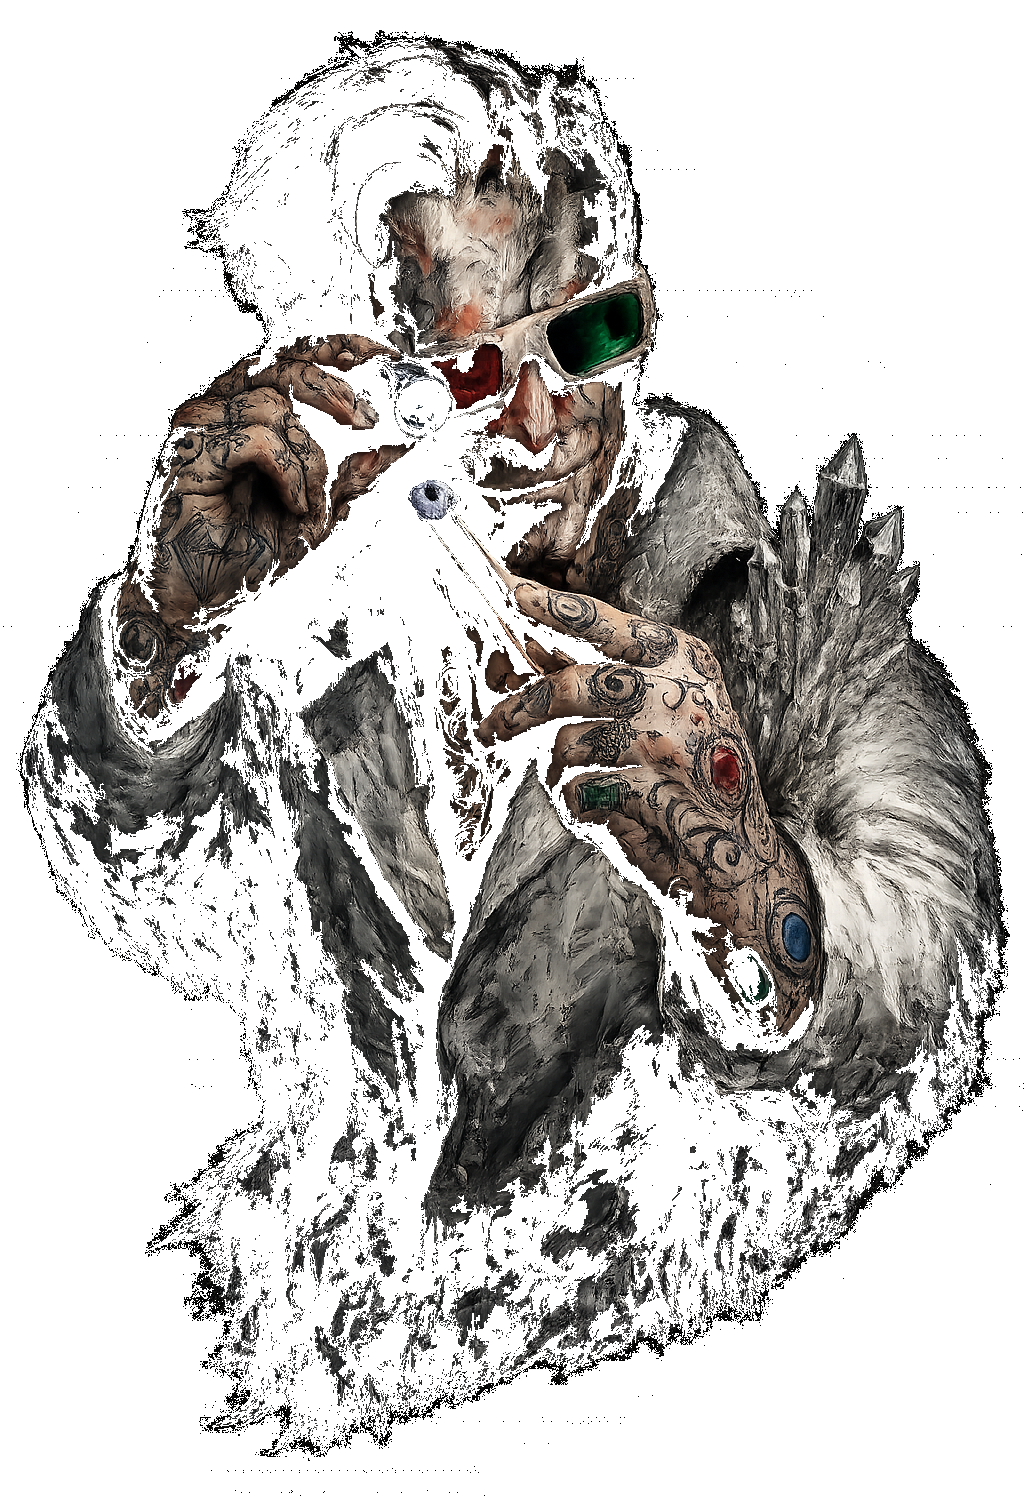
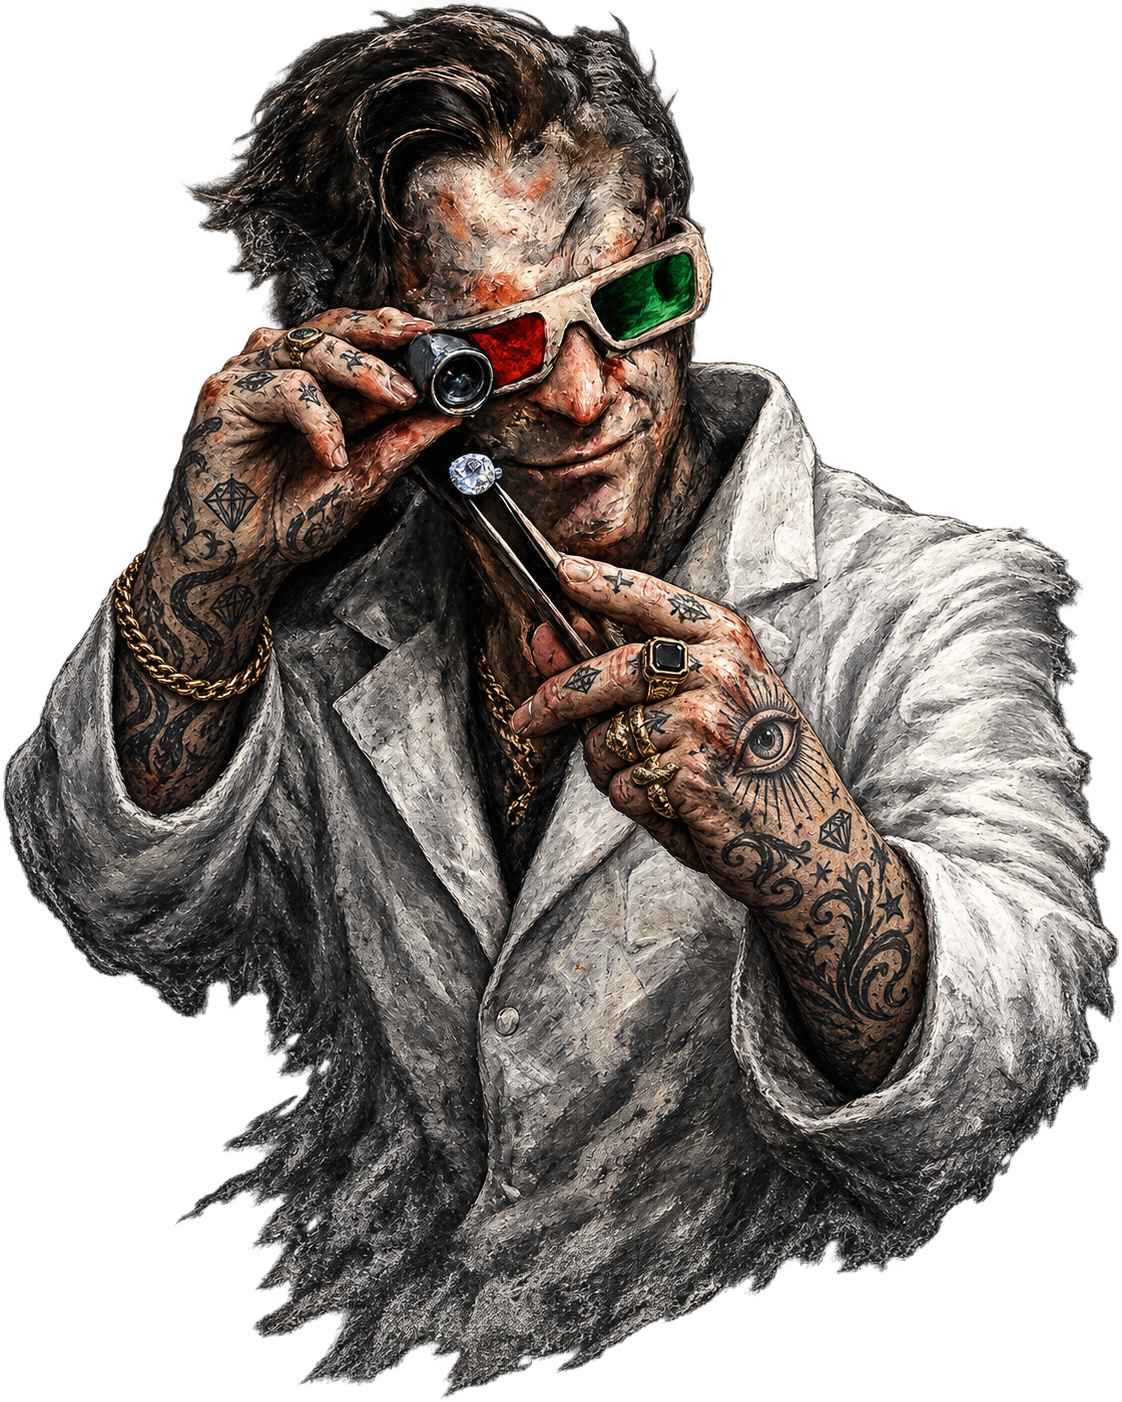
719

diff --git a/game.html b/game.html
@@ -5,7 +5,7 @@
   <meta name="viewport" content="width=device-width,initial-scale=1,viewport-fit=cover,user-scalable=no">
   <meta http-equiv="Content-Security-Policy" content="default-src 'self'; base-uri 'self'; object-src 'none'; script-src 'self' 'nonce-jxj-kaitenzushi' https://www.gstatic.com https://apis.google.com https://www.google.com https://www.recaptcha.net; style-src 'self' 'unsafe-inline'; img-src 'self' data: blob: https://www.gstatic.com https://*.googleusercontent.com; media-src 'self' blob:; font-src 'self' data:; connect-src 'self' https://*.googleapis.com https://*.firebaseio.com wss://*.firebaseio.com https://*.firebaseapp.com https://accounts.google.com https://*.google.com https://www.recaptcha.net https://*.gstatic.com; frame-src 'self' https://*.firebaseapp.com https://accounts.google.com https://www.google.com https://www.recaptcha.net; worker-src 'self' blob:; child-src 'self' blob:; manifest-src 'self'; form-action 'self' https://accounts.google.com; upgrade-insecure-requests">
   <script src="./auth-cache-recovery-v707.js"></script>
-  <script src="./hosting-origin-guard.js?v=0.10.718"></script>
+  <script src="./hosting-origin-guard.js?v=0.10.719"></script>
   <meta name="referrer" content="strict-origin-when-cross-origin">
   <meta name="theme-color" content="#130e09">
   <meta name="mobile-web-app-capable" content="yes">
@@ -20,7 +20,7 @@
   <link rel="manifest" href="./manifest.webmanifest">
   <link rel="icon" href="./assets/icons/favicon.png">
   <link rel="apple-touch-icon" href="./assets/icons/apple-touch-icon.png">
-  <link rel="stylesheet" href="./styles.css?v=0.10.718">
+  <link rel="stylesheet" href="./styles.css?v=0.10.719">
 
   <style id="event-video-contain-v638">
     /* v0.10.632: Event movies must always show the complete source frame.
@@ -277,57 +277,6 @@ html[data-device-class="phone"][data-orientation="portrait"] body[data-screen="c
         transform: none !important;
       }
     }
-
-
-    /* v0.10.718: Completion mobile safety fallback. Mirrors styles.css. */
-    @media (orientation:portrait) and (max-width:820px) {
-      body[data-screen="completion"][data-header-mode="two-bar"] .screen-shell:not(.event-shell-no-header) > .screen-content {
-        padding-top: calc(var(--safe-top) + var(--jwj-edge-gap, 7px) * 2 + var(--jwj-two-bar-total-height, 140px) + 18px) !important;
-        scroll-padding-top: calc(var(--safe-top) + var(--jwj-edge-gap, 7px) * 2 + var(--jwj-two-bar-total-height, 140px) + 18px) !important;
-      }
-      body[data-screen="completion"] .result-card > .completion-jewelry-preview {
-        box-sizing: border-box !important;
-        display: flex !important;
-        align-items: flex-start !important;
-        justify-content: center !important;
-        width: 100% !important;
-        height: 334px !important;
-        min-height: 334px !important;
-        margin-top: 0 !important;
-        padding: 124px 0 18px !important;
-        overflow: visible !important;
-      }
-      body[data-screen="completion"] .completion-jewelry-artwork {
-        width: 168px !important;
-        height: 168px !important;
-        margin: 0 !important;
-        transform: none !important;
-      }
-      body[data-screen="completion"] .completion-jewelry-artwork.item-pendant { width: 132px !important; height: 182px !important; }
-      body[data-screen="completion"] .completion-jewelry-artwork.item-earrings { width: 178px !important; height: 161px !important; }
-      body[data-screen="completion"] .completion-jewelry-preview.item-ring .jewelry-loose-set .center-gem { width: 76px !important; max-width: 76px !important; }
-      body[data-screen="completion"] .completion-jewelry-preview.item-ring .jewelry-loose-set .center-gem > img.jewelry-loose-preview { max-height: 76px !important; }
-      body[data-screen="completion"] .completion-jewelry-preview.item-pendant .jewelry-loose-set .center-gem { width: 68px !important; max-width: 68px !important; }
-      body[data-screen="completion"] .completion-jewelry-preview.item-pendant .jewelry-loose-set .center-gem > img.jewelry-loose-preview { max-height: 68px !important; }
-    }
-    @media (orientation:landscape), (min-aspect-ratio:1/1) {
-      body[data-screen="completion"] .result-card > .completion-jewelry-preview {
-        box-sizing: border-box !important;
-        display: flex !important;
-        align-items: flex-start !important;
-        justify-content: center !important;
-        width: 100% !important;
-        height: 280px !important;
-        min-height: 280px !important;
-        margin-top: 0 !important;
-        padding: 48px 0 16px !important;
-        overflow: visible !important;
-      }
-      body[data-screen="completion"] .completion-jewelry-artwork { width: 186px !important; height: 186px !important; margin: 0 !important; transform: none !important; }
-      body[data-screen="completion"] .completion-jewelry-artwork.item-pendant { width: 148px !important; height: 204px !important; }
-      body[data-screen="completion"] .completion-jewelry-artwork.item-earrings { width: 198px !important; height: 178px !important; }
-    }
-
 </style>
 </head>
 <body>
@@ -338,6 +287,6 @@ html[data-device-class="phone"][data-orientation="portrait"] body[data-screen="c
   <div id="modal-layer" class="hidden"></div>
   <div id="sleep-curtain" aria-hidden="true"></div>
   <div id="morning-brief" aria-live="polite"></div>
-  <script type="module" src="./js/app.js?v=0.10.718"></script>
+  <script type="module" src="./js/app.js?v=0.10.719"></script>
 </body>
 </html>

diff --git a/styles.css b/styles.css
@@ -21825,80 +21825,19 @@ body[data-screen="tropicalFishShop"] .tropical-fish-shop-content{
 }
 
 
-/* v0.10.718 完成画面: 携帯確認用HTMLで承認された安全領域へ統一。
-   完成品の上端が2段ヘッダーへ潜り込む／プレビュー上端で切れる症状を防ぐ。 */
-@media (orientation:portrait) and (max-width:820px){
-  body[data-screen="completion"][data-header-mode="two-bar"] .screen-shell:not(.event-shell-no-header)>.screen-content{
-    padding-top:calc(var(--safe-top) + var(--jwj-edge-gap,7px) * 2 + var(--jwj-two-bar-total-height,140px) + 18px)!important;
-    scroll-padding-top:calc(var(--safe-top) + var(--jwj-edge-gap,7px) * 2 + var(--jwj-two-bar-total-height,140px) + 18px)!important;
-  }
-  body[data-screen="completion"] .result-card>.completion-jewelry-preview{
-    box-sizing:border-box!important;
-    display:flex!important;
-    align-items:flex-start!important;
-    justify-content:center!important;
-    width:100%!important;
-    height:334px!important;
-    min-height:334px!important;
-    margin-top:0!important;
-    padding:124px 0 18px!important;
-    overflow:visible!important;
-  }
-  body[data-screen="completion"] .completion-jewelry-artwork{
-    width:168px!important;
-    height:168px!important;
-    margin:0!important;
-    transform:none!important;
-  }
-  body[data-screen="completion"] .completion-jewelry-artwork.item-pendant{
-    width:132px!important;
-    height:182px!important;
-  }
-  body[data-screen="completion"] .completion-jewelry-artwork.item-earrings{
-    width:178px!important;
-    height:161px!important;
-  }
-  body[data-screen="completion"] .completion-jewelry-preview.item-ring .jewelry-loose-set .center-gem{
-    width:76px!important;
-    max-width:76px!important;
-  }
-  body[data-screen="completion"] .completion-jewelry-preview.item-ring .jewelry-loose-set .center-gem>img.jewelry-loose-preview{
-    max-height:76px!important;
-  }
-  body[data-screen="completion"] .completion-jewelry-preview.item-pendant .jewelry-loose-set .center-gem{
-    width:68px!important;
-    max-width:68px!important;
-  }
-  body[data-screen="completion"] .completion-jewelry-preview.item-pendant .jewelry-loose-set .center-gem>img.jewelry-loose-preview{
-    max-height:68px!important;
-  }
+/* v0.10.719 APPROVED FIX — ルース屋3Dメガネイベント
+   川原さん実機確認の最終仕様
+   - キャラクター画像は新しい輪郭トリミング済みPNGを使用
+   - セリフ枠・4択枠・報酬枠は、枠線を残して内部を透明にする */
+body[data-screen="looseShopOriginalQuizEvent"] .loose-shop-original-quiz-event .quiz-dialogue-panel,
+body[data-screen="looseShopOriginalQuizEvent"] .loose-shop-original-quiz-event .quiz-question-panel,
+body[data-screen="looseShopOriginalQuizEvent"] .loose-shop-original-quiz-event .quiz-reward-button{
+  background:transparent!important;
+  background-image:none!important;
 }
-
-@media (orientation:landscape), (min-aspect-ratio:1/1){
-  body[data-screen="completion"] .result-card>.completion-jewelry-preview{
-    box-sizing:border-box!important;
-    display:flex!important;
-    align-items:flex-start!important;
-    justify-content:center!important;
-    width:100%!important;
-    height:280px!important;
-    min-height:280px!important;
-    margin-top:0!important;
-    padding:48px 0 16px!important;
-    overflow:visible!important;
-  }
-  body[data-screen="completion"] .completion-jewelry-artwork{
-    width:186px!important;
-    height:186px!important;
-    margin:0!important;
-    transform:none!important;
-  }
-  body[data-screen="completion"] .completion-jewelry-artwork.item-pendant{
-    width:148px!important;
-    height:204px!important;
-  }
-  body[data-screen="completion"] .completion-jewelry-artwork.item-earrings{
-    width:198px!important;
-    height:178px!important;
-  }
+body[data-screen="looseShopOriginalQuizEvent"] .loose-shop-original-quiz-event .quiz-dialogue-panel::before,
+body[data-screen="looseShopOriginalQuizEvent"] .loose-shop-original-quiz-event .quiz-question-panel::before,
+body[data-screen="looseShopOriginalQuizEvent"] .loose-shop-original-quiz-event .quiz-reward-button::before{
+  background:transparent!important;
+  background-image:none!important;
 }

diff --git a/js/app.js b/js/app.js
@@ -5,9 +5,9 @@ import {
   clock, nextWeather, AQUARIUM_CONFIG, createInitialAquariumState, normalizeAquariumState,
 } from './game-data.js';
 
-const UI_BUILD_VERSION = '0.10.718';
-import { configureAudio, unlockAudio, releaseStartupAudioHold, applyAudioSettings, switchAudio, updateMainEnvironment, playSfx, startPoliceSiren, setPoliceSirenGain, stopPoliceSiren, startWristFoundDarkDrone, stopWristFoundDarkDrone, vibrate, suspendAudio, resumeAudio, stopMealAudio, duckCurrentAmbient } from './audio.js?v=0.10.718';
-import { resolveAudioScene } from './audio-scene-map.js?v=0.10.718';
+const UI_BUILD_VERSION = '0.10.719';
+import { configureAudio, unlockAudio, releaseStartupAudioHold, applyAudioSettings, switchAudio, updateMainEnvironment, playSfx, startPoliceSiren, setPoliceSirenGain, stopPoliceSiren, startWristFoundDarkDrone, stopWristFoundDarkDrone, vibrate, suspendAudio, resumeAudio, stopMealAudio, duckCurrentAmbient } from './audio.js?v=0.10.719';
+import { resolveAudioScene } from './audio-scene-map.js?v=0.10.719';
 import { japaneseHolidayName } from './japan-holidays.js';
 import { dailyGemSummaryForDate } from './daily-gems-index.js?v=0.10.691';
 import {
@@ -15,7 +15,7 @@ import {
   needsEmailVerification, resendVerificationEmail, refreshAuthUser, requestPasswordReset, currentProviderKind,
   loadState, saveState, deleteGameData, deleteAccountCompletely, claimSession, watchSession, heartbeat, firebaseErrorMessage,
   createGiftCode, inspectGiftCode, claimGiftCode, cancelGiftCode, normalizeGiftCode, giftErrorMessage,
-} from './firebase-service.js?v=0.10.718';
+} from './firebase-service.js?v=0.10.719';
 
 
 
@@ -11849,7 +11849,7 @@ function aquariumCurrentObservationNames(snapshot = aquariumSnapshot(), engine =
     const engineId = aquariumEngineCompatibleId(decorationRegistry, definition.id, AQUARIUM_ENGINE_PLANT_ALIASES);
     if (engineId) names.add(normalizeAquariumObservationName(decorationRegistry[engineId]?.displayName));
   }
-  // v0.10.716: 観察画面は固定5項目を常時表示し、任意レイアウト品は実際に設置中のみ表示する。
+  // v0.10.719: 観察画面は固定5項目を常時表示し、任意レイアウト品は実際に設置中のみ表示する。
   for (const definition of AQUARIUM_CONFIG.displayItems) {
     const installed = Math.max(0, Math.floor(Number(snapshot.displayItems?.[definition.id]?.installed) || 0));
     if (!definition.required && installed <= 0) continue;

diff --git a/index.html b/index.html
@@ -5,7 +5,7 @@
   <meta name="viewport" content="width=device-width,initial-scale=1,viewport-fit=cover,user-scalable=no">
   <meta http-equiv="Content-Security-Policy" content="default-src 'self'; base-uri 'self'; object-src 'none'; script-src 'self' https://www.gstatic.com https://apis.google.com https://www.google.com https://www.recaptcha.net; style-src 'self' 'unsafe-inline'; img-src 'self' data: blob: https://www.gstatic.com https://*.googleusercontent.com; media-src 'self' blob:; font-src 'self' data:; connect-src 'self' https://*.googleapis.com https://*.firebaseio.com wss://*.firebaseio.com https://*.firebaseapp.com https://accounts.google.com https://*.google.com https://www.recaptcha.net https://*.gstatic.com; frame-src 'self' https://*.firebaseapp.com https://accounts.google.com https://www.google.com https://www.recaptcha.net; worker-src 'self' blob:; child-src 'self' blob:; manifest-src 'self'; form-action 'self' https://accounts.google.com; upgrade-insecure-requests">
   <script src="./auth-cache-recovery-v707.js"></script>
-  <script src="./hosting-origin-guard.js?v=0.10.718"></script>
+  <script src="./hosting-origin-guard.js?v=0.10.719"></script>
   <meta name="referrer" content="strict-origin-when-cross-origin">
   <meta name="theme-color" content="#130e09">
   <meta name="mobile-web-app-capable" content="yes">
@@ -16,20 +16,20 @@
   <link rel="manifest" href="./manifest.webmanifest">
   <link rel="icon" href="./assets/icons/favicon.png">
   <link rel="apple-touch-icon" href="./assets/icons/apple-touch-icon.png">
-  <link rel="stylesheet" href="./viewport-shell.css?v=0.10.718">
+  <link rel="stylesheet" href="./viewport-shell.css?v=0.10.719">
 </head>
 <body>
   <main id="viewport-safe-area" aria-label="JEWELRY×JEWELRY">
     <div id="device-stage">
       <iframe
         id="game-frame"
-        src="./game.html?v=0.10.718"
+        src="./game.html?v=0.10.719"
         title="JEWELRY×JEWELRY"
         allow="autoplay; clipboard-write; identity-credentials-get"
         referrerpolicy="strict-origin-when-cross-origin"
       ></iframe>
     </div>
   </main>
-  <script src="./viewport-shell.js?v=0.10.718"></script>
+  <script src="./viewport-shell.js?v=0.10.719"></script>
 </body>
 </html>

diff --git a/sw.js b/sw.js
@@ -1,12 +1,12 @@
-const VERSION = '0.10.718';
+const VERSION = '0.10.719';
 const APP_CACHE = `jewelrygame-app-v${VERSION}`;
 const RUNTIME_CACHE = `jewelrygame-runtime-v${VERSION}`;
 const MEDIA_CACHE = 'jewelrygame-media-v1';
 const CORE_SHELL = [
   './', './index.html', './game.html', './auth.html', './auth-cache-recovery-v707.js', './hosting-origin-guard.js', './viewport-shell.css', './viewport-shell.js', './styles.css',
-  './manifest.webmanifest', './js/app.js', './js/audio.js?v=0.10.718', './js/audio-scene-map.js?v=0.10.718', './js/game-data.js', './js/daily-gems-index.js?v=0.10.691',
+  './manifest.webmanifest', './js/app.js', './js/audio.js?v=0.10.719', './js/audio-scene-map.js?v=0.10.719', './js/game-data.js', './js/daily-gems-index.js?v=0.10.691',
   './js/japan-holidays.js', './js/firebase-config.js',
-  './js/google-auth-bridge.js?v=0.10.718', './js/security-config.js', './js/firebase-service.js?v=0.10.718',
+  './js/google-auth-bridge.js?v=0.10.719', './js/security-config.js', './js/firebase-service.js?v=0.10.719',
   './assets/images/okachimachi-night.webp', './assets/images/okachimachi-night-portrait.webp',
   // v0.10.666: large event images and quiz data are runtime-cached on first use instead of being downloaded during every SW install.
 ];

diff --git a/js/game-data.js b/js/game-data.js
@@ -1,4 +1,4 @@
-export const VERSION = '0.10.718';
+export const VERSION = '0.10.719';
 export const SAVE_SCHEMA_VERSION = 1;
 export const DEFAULT_BIRTHDAY = '04-01';
 export const SAVE_KEY = 'jewelrygame-clean-v0.4.0';
@@ -7530,7 +7530,7 @@ export function normalizeAquariumState(saved) {
     };
   }
   next.displayItems = isRecord(next.displayItems) ? next.displayItems : {};
-  // v0.10.716: 旧水槽データの汎用「流木」「レイアウトストーン」を、新しい商品バリエーションへ一度だけ移行する。
+  // v0.10.719: 旧水槽データの汎用「流木」「レイアウトストーン」を、新しい商品バリエーションへ一度だけ移行する。
   const legacyDisplayItems = isRecord(source.displayItems) ? source.displayItems : {};
   const newWoodIds = AQUARIUM_CONFIG.displayItems.filter((def) => def.family === 'driftwood').map((def) => def.id);
   const newStoneIds = AQUARIUM_CONFIG.displayItems.filter((def) => def.family === 'stone').map((def) => def.id);

diff --git a/auth.html b/auth.html
@@ -54,6 +54,6 @@
     </section>
     <a href="./index.html">ログインせずゲームへ戻る</a>
   </main>
-  <script type="module" src="./js/google-auth-bridge.js?v=0.10.718"></script>
+  <script type="module" src="./js/google-auth-bridge.js?v=0.10.719"></script>
 </body>
 </html>

diff --git a/CHANGELOG.md b/CHANGELOG.md
@@ -1,20 +1,9 @@
-# v0.10.718 - 2026-08-18
 
-- 工房のジュエリー完成画面を、実機確認後の「もう少し下」調整へ更新。
-- 縦画面の完成品プレビュー内上余白を104pxから124pxへ変更し、完成品本体とルースを一緒に20px下へ移動。
-- リング／ペンダント／ピアスすべてに同じ補正を適用。
-- 完成品ステージ寸法、ルースサイズ、本文開始位置、横画面配置はv0.10.717を維持。
-- `styles.css` と `game.html` のフォールバックを同じ124pxへ統一。
-- SAVE_SCHEMA_VERSION は 1 のまま変更なし。
-
-# v0.10.717 - 2026-08-18
-
-- 工房のジュエリー完成画面を携帯確認用HTMLで承認された配置へ更新。
-- 縦画面で完成品画像の上端が2段ヘッダーへ潜り込む／上側が切れる症状を修正。
-- 縦画面は完成画面本文の安全領域、完成品プレビュー上余白、リング／ペンダント／ピアスの完成品ステージ寸法を確認版に合わせて固定。
-- 横画面も確認版の完成品ステージ位置へ統一。
-- `styles.css` と `game.html` のインラインフォールバックを同内容にし、キャッシュ差による再発を抑制。
-- SAVE_SCHEMA_VERSION は 1 のまま変更なし。
+## v0.10.719 - ルース屋3Dメガネイベント表示修正
+- ルース屋の「3Dメガネ」イベントについて、承認済みの新キャラクター画像へ差し替え。輪郭トリミング済みの透明PNGを正式採用しました。
+- セリフ枠・4択枠・報酬枠は、枠線を残したまま内部を透明表示に調整しました。
+- キャラクターの入れ墨あり最終版を採用し、表示崩れの原因だった旧画像を置き換えました。
+- Service Worker / ビルド番号を v0.10.719 へ更新し、反映後のキャッシュ差し替えを確実にしました。
 
 ## v0.10.716 - 水槽・熱帯魚屋・御徒町ランダムイベント統合更新
 

diff --git a/IMPLEMENTATION_NOTES_v0.10.719.md b/IMPLEMENTATION_NOTES_v0.10.719.md
@@ -1,0 +1,18 @@
+# JEWELRY×JEWELRY v0.10.719 実装ノート
+
+基準: v0.10.716
+更新日: 2026-08-19
+
+## 1. 対象
+- 御徒町 > ルース屋 の「3Dメガネ」オリジナルルースクイズイベント。
+
+## 2. 変更内容
+- キャラクター画像を、ユーザー承認済みの最終版へ差し替えました。
+- 使用画像は背景透明PNGで、黒背景だけを残さず輪郭でトリミングしたものです。
+- 人物には承認済みの入れ墨あり版を採用しました。
+- セリフ枠、4択クイズ枠、報酬枠は、枠線を残したまま内部背景を透明化しました。
+
+## 3. 互換性
+- セーブデータ互換性は維持しています。
+- SAVE_SCHEMA_VERSION は変更していません。
+- 既存のルース屋イベント進行、クイズ内容、報酬ロジック、BGM/環境音は維持しています。
